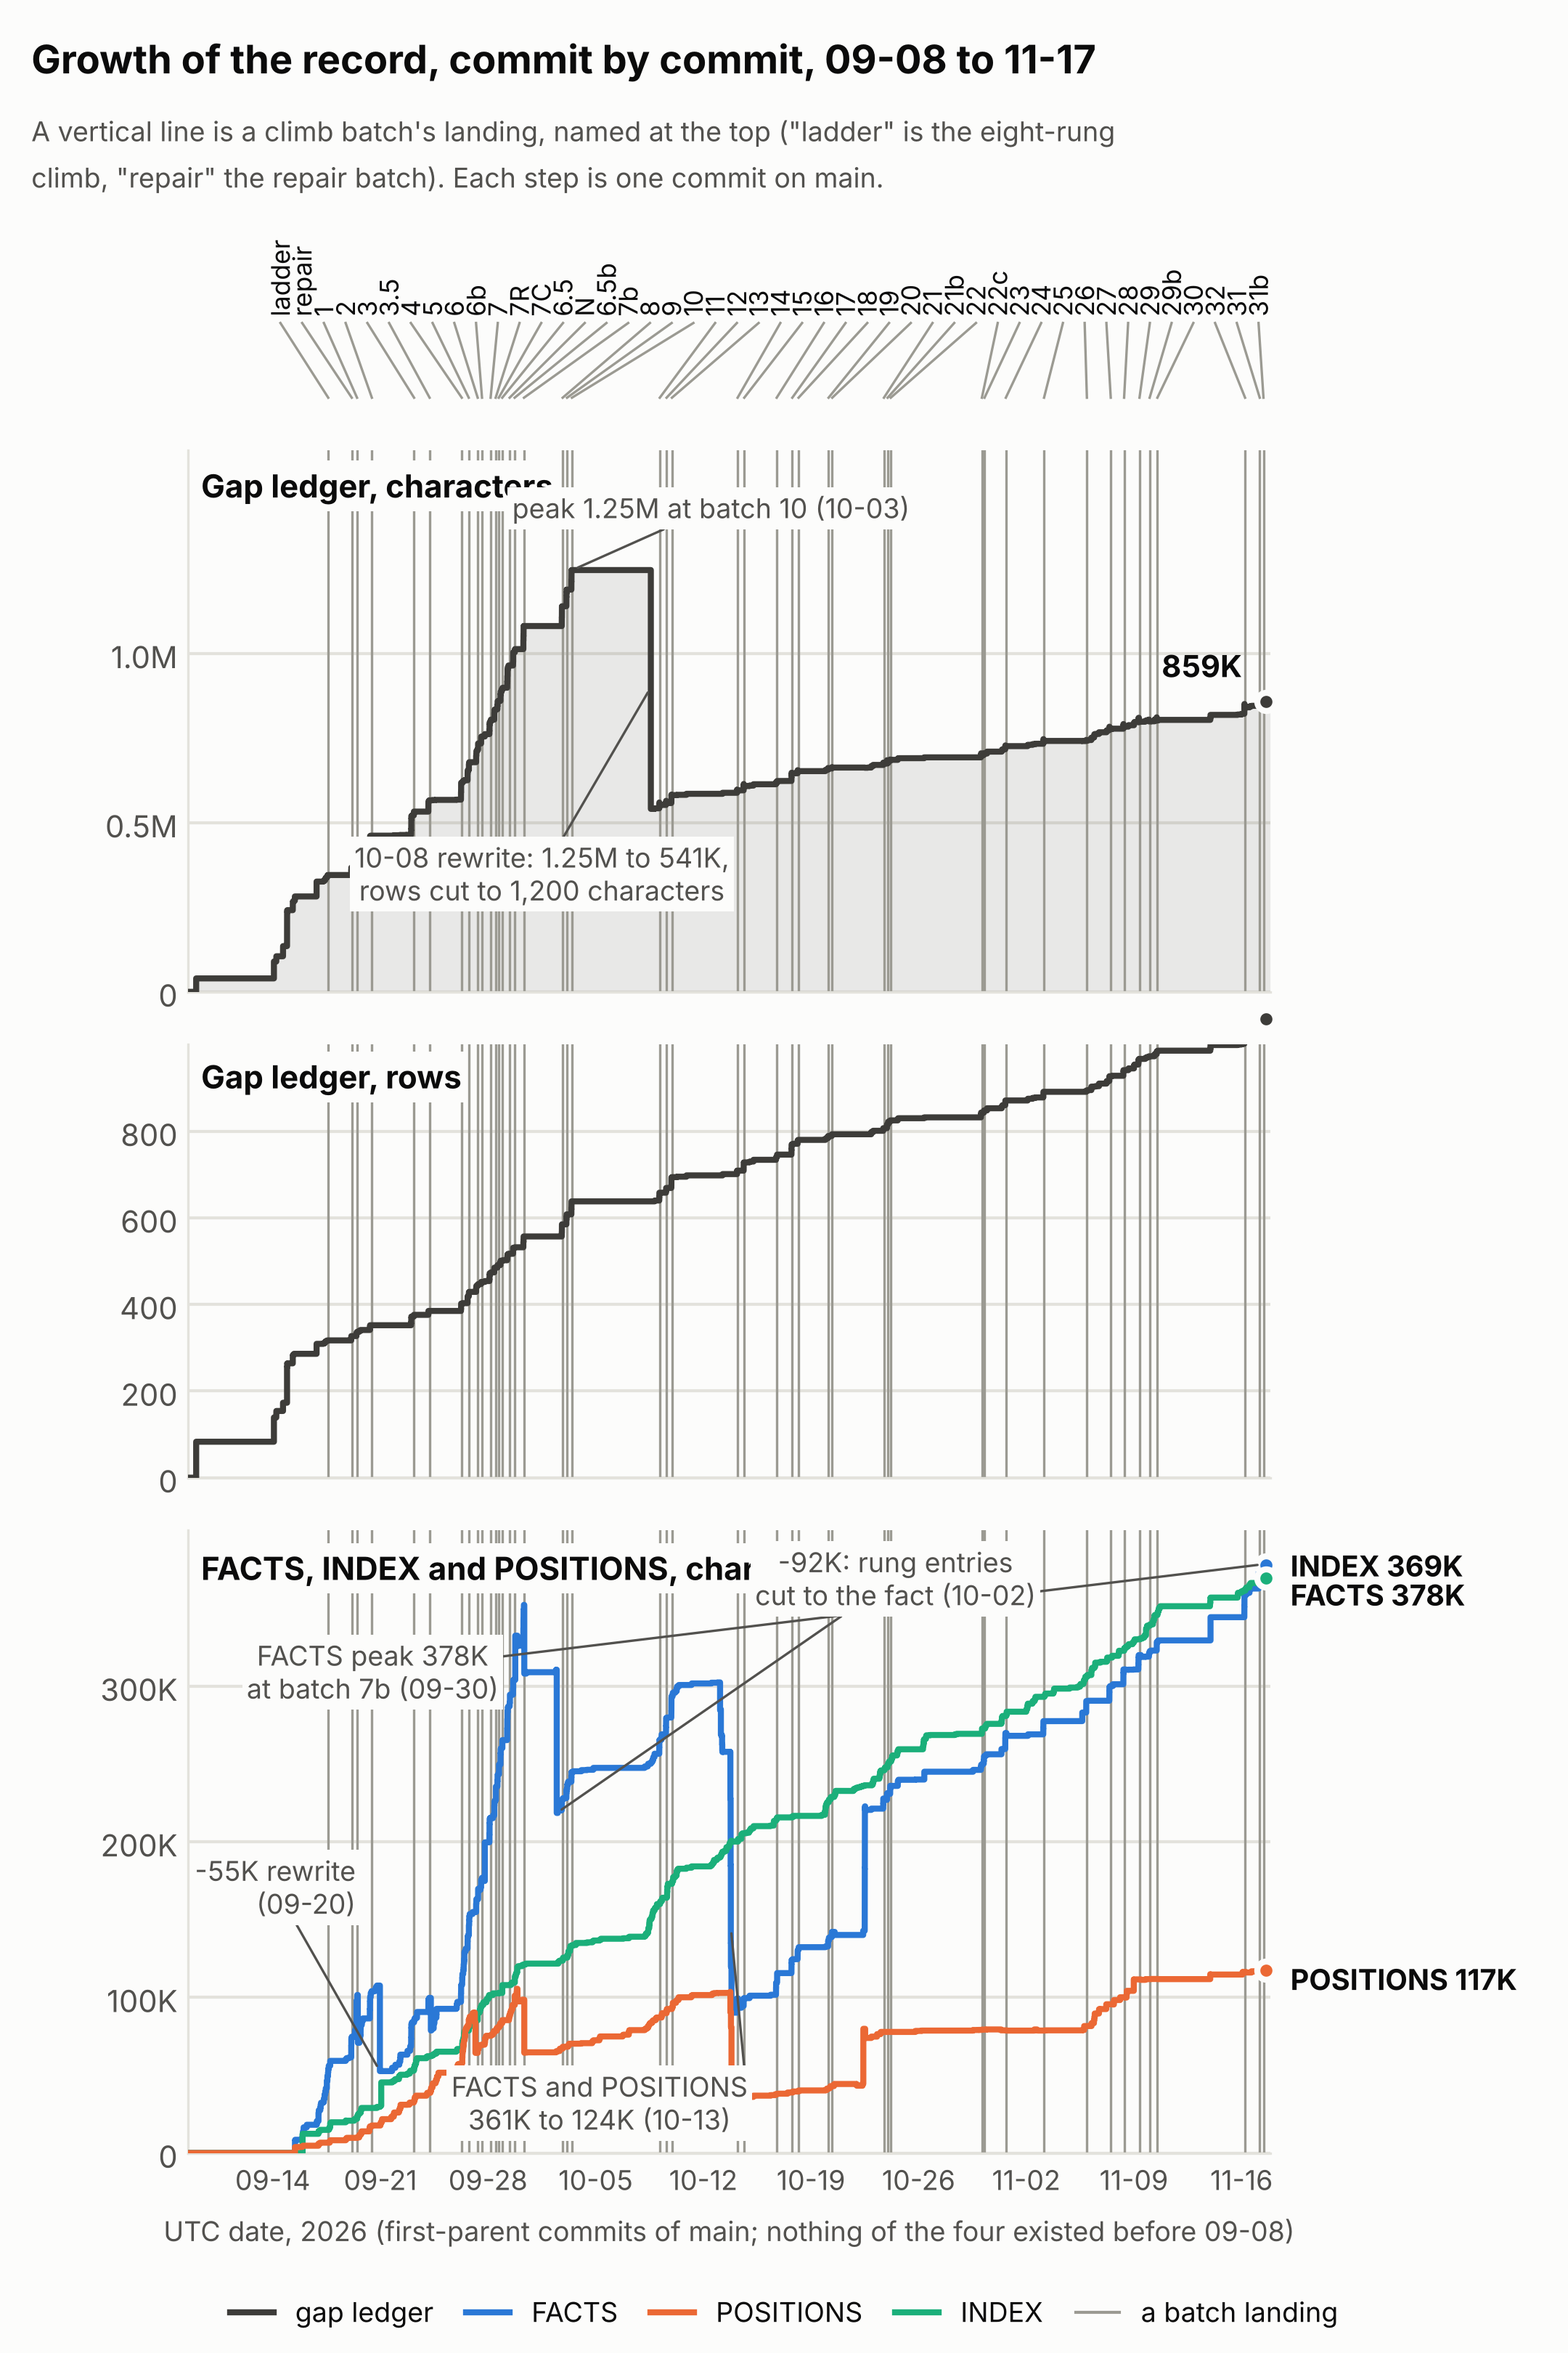
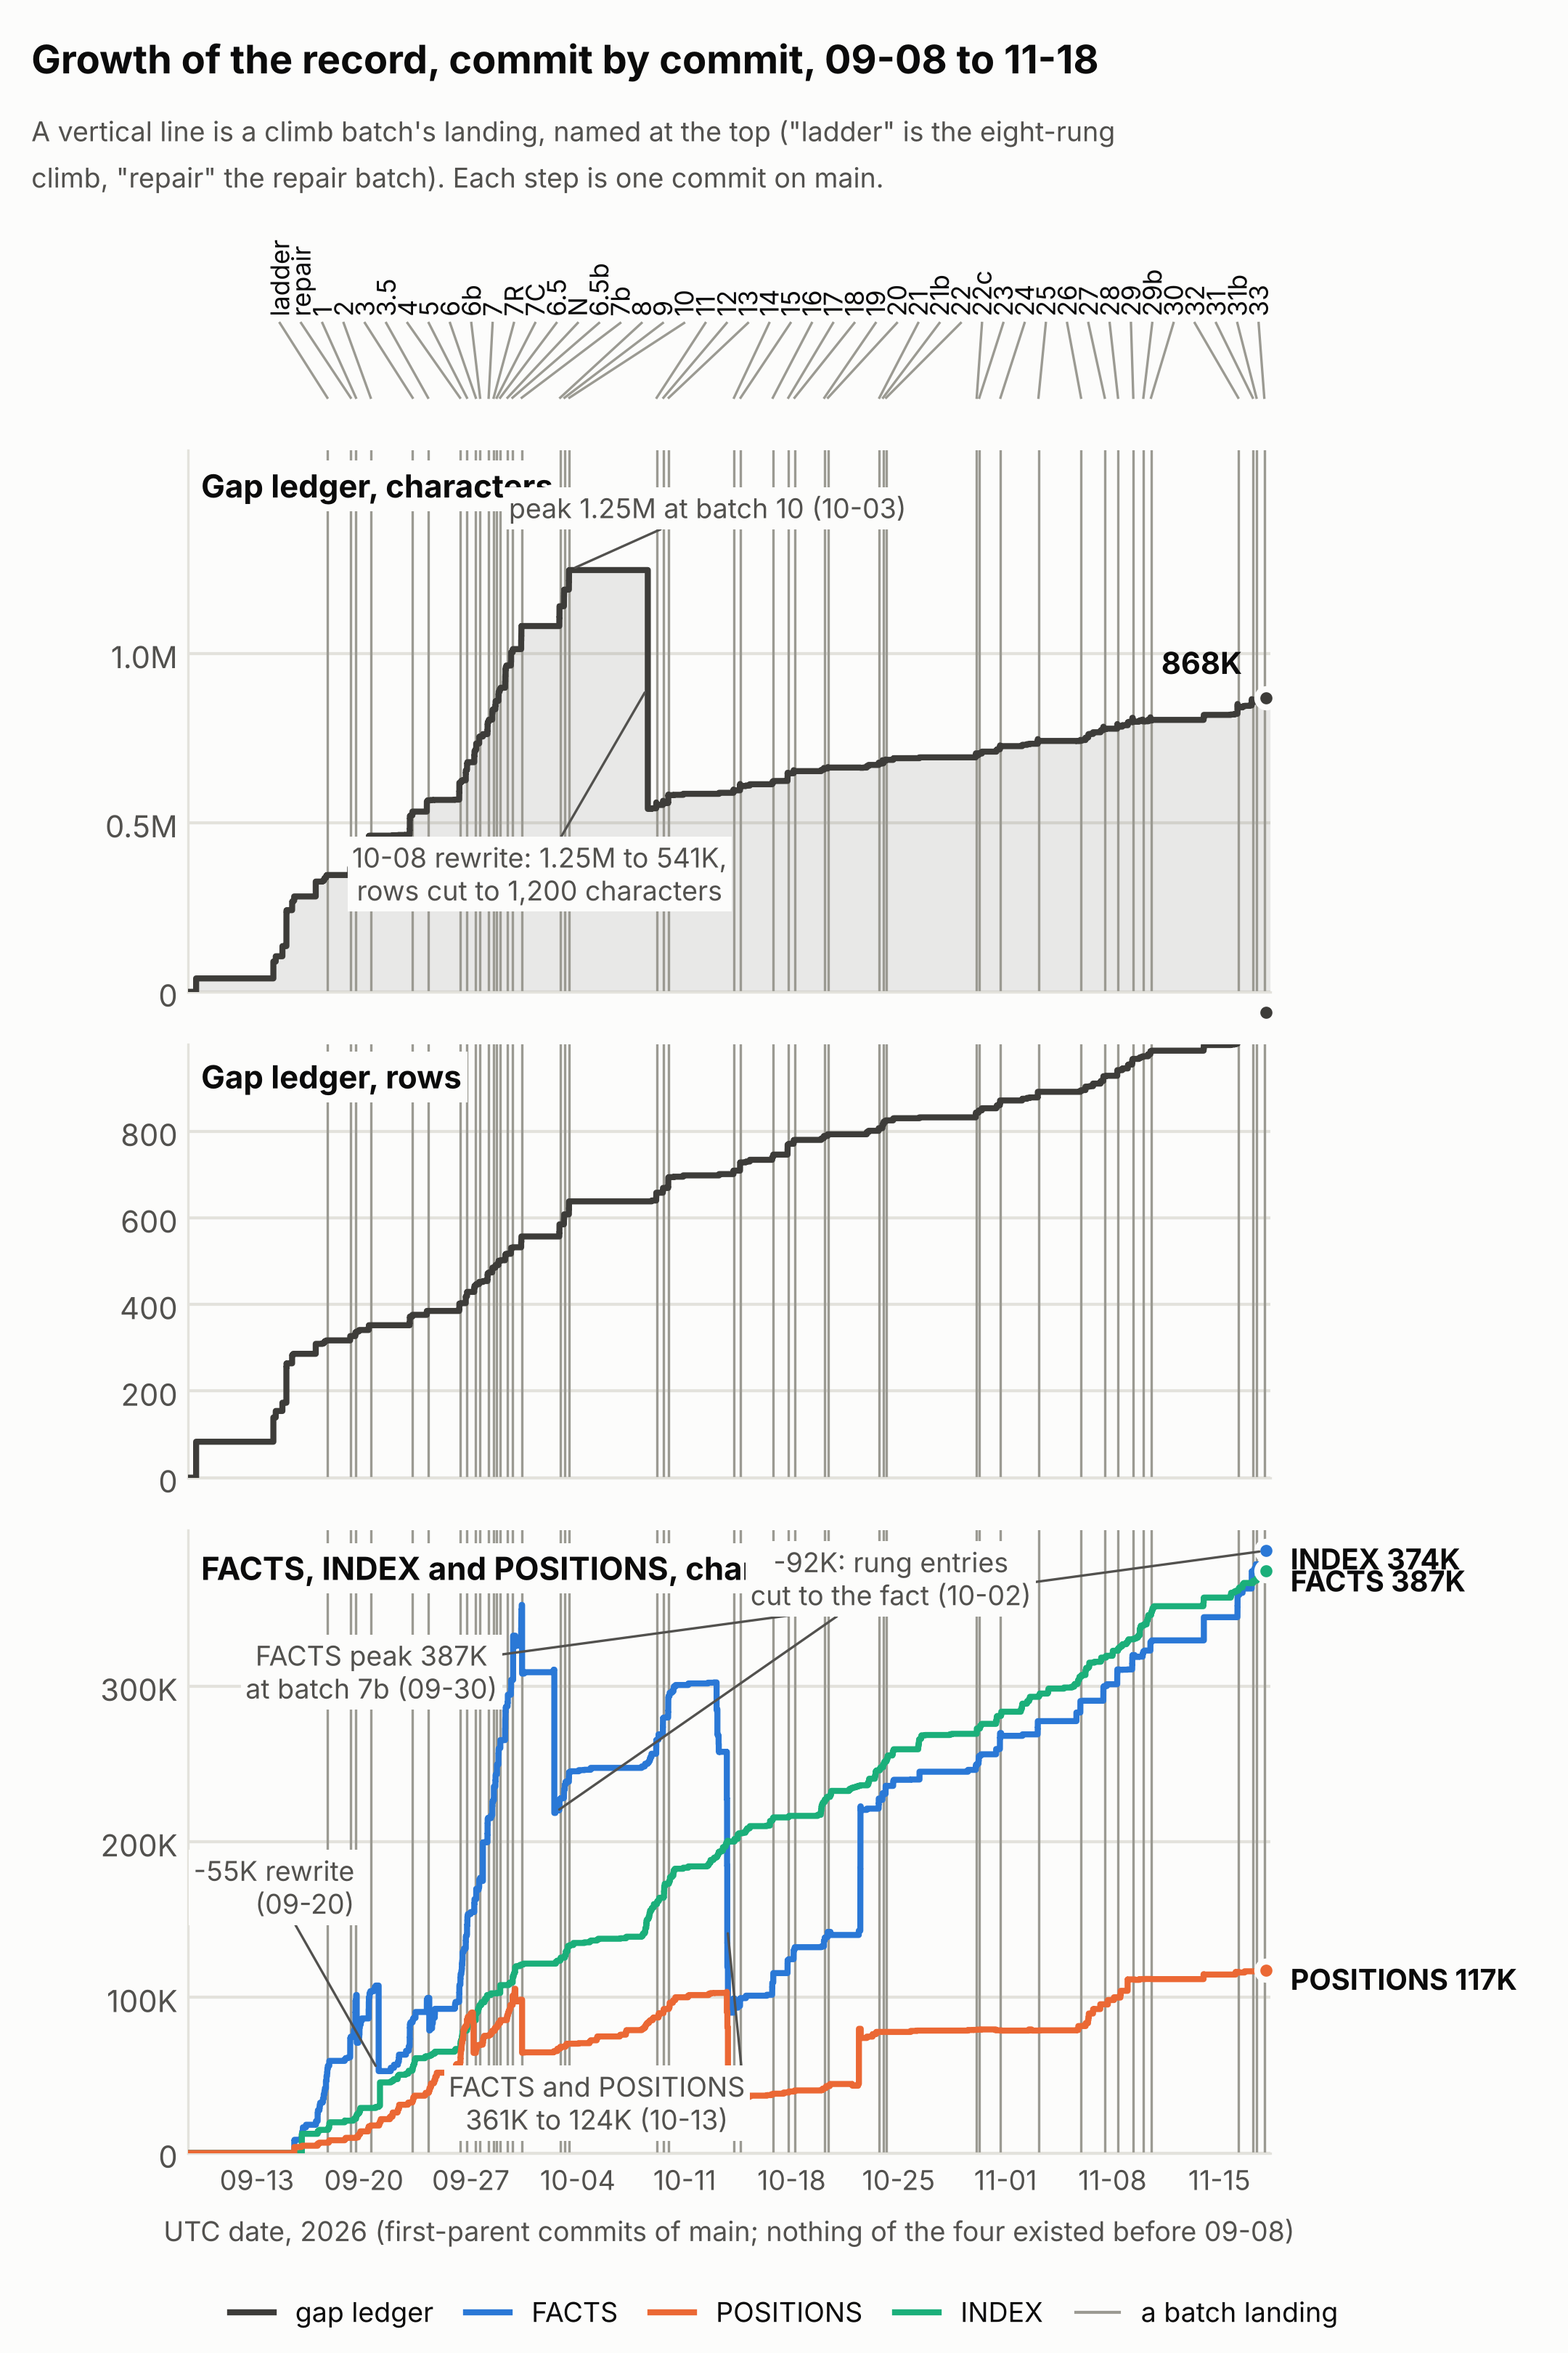
Revival page: where it stands at the landing of climb batch 33, the record chart regenerated
By the climb batch 33 landing workflow.

Claude-Session: https://claude.ai/code/session_01AmiXNpJxQ6TBwec4vJZHDB

Changed region(s): [[0.1551, 0.0935, 0.9306, 0.9352], [0.5583, 0.4364, 0.5894, 0.6235], [0.6824, 0.0, 0.7134, 0.0312]]

diff --git a/docs/revival-story/index.html b/docs/revival-story/index.html
@@ -201,7 +201,7 @@ details.words dl.gloss dd { margin-left: 1em; }
 <p>A script rewrites the block below at each landing, from the plan and the gate. The rest of the page changes only when a phase ends.</p>
 <div class="intro">
 <!-- stand:begin -->
-<p><strong>Where it stands, at the landing of batch 31b on 17 November 2026</strong></p>
+<p><strong>Where it stands, at the landing of batch 33 on 17 November 2026</strong></p>
 <ul>
 <li><strong>Phase:</strong> 4 of 6, which ends with the switch-over, since 30 October.</li>
 <li><strong>Checker count:</strong> 0.</li>
@@ -302,7 +302,7 @@ details.words dl.gloss dd { margin-left: 1em; }
 <section id="the-record" class="part">
 <h2>7. The record</h2>
 <p>The record is the project's notes, kept in the repository beside the team's code. Its main parts are the gap ledger (section 5), the list of facts, the list of the curator's decisions, and an index of all notes. An agent reads the parts its task needs before it starts, so no agent works out again what the record holds.</p>
-<figure><img src="record-growth.png" alt="The gap ledger&#x27;s characters and rows, and FACTS, POSITIONS and INDEX, commit by commit from 09-08 to 11-17, with each batch&#x27;s landing marked" width="1080" height="1620"></figure>
+<figure><img src="record-growth.png" alt="The gap ledger&#x27;s characters and rows, and FACTS, POSITIONS and INDEX, commit by commit from 09-08 to 11-18, with each batch&#x27;s landing marked" width="1080" height="1620"></figure>
 <p>The chart has three panels on one time axis, with a vertical line at each batch's landing. They show the ledger's characters, its rows, and the sizes of the facts, the decisions and the index. The ledger grows mostly while batches run, and the index by one line for each new note. Each sharp fall is a rewrite that shortened the entries, with the earlier text kept in history.</p>
 </section>
 <footer>

diff --git a/explorations/coordinator/process-engineering/revival-story.html b/explorations/coordinator/process-engineering/revival-story.html
@@ -194,7 +194,7 @@ details.words dl.gloss dd { margin-left: 1em; }
 <p>A script rewrites the block below at each landing, from the plan and the gate. The rest of the page changes only when a phase ends.</p>
 <div class="intro">
 <!-- stand:begin -->
-<p><strong>Where it stands, at the landing of batch 31b on 17 November 2026</strong></p>
+<p><strong>Where it stands, at the landing of batch 33 on 17 November 2026</strong></p>
 <ul>
 <li><strong>Phase:</strong> 4 of 6, which ends with the switch-over, since 30 October.</li>
 <li><strong>Checker count:</strong> 0.</li>
@@ -295,7 +295,7 @@ details.words dl.gloss dd { margin-left: 1em; }
 <section id="the-record" class="part">
 <h2>7. The record</h2>
 <p>The record is the project's notes, kept in the repository beside the team's code. Its main parts are the gap ledger (section 5), the list of facts, the list of the curator's decisions, and an index of all notes. An agent reads the parts its task needs before it starts, so no agent works out again what the record holds.</p>
-<figure><img src="record-growth.png" alt="The gap ledger&#x27;s characters and rows, and FACTS, POSITIONS and INDEX, commit by commit from 09-08 to 11-17, with each batch&#x27;s landing marked" width="1080" height="1620"></figure>
+<figure><img src="record-growth.png" alt="The gap ledger&#x27;s characters and rows, and FACTS, POSITIONS and INDEX, commit by commit from 09-08 to 11-18, with each batch&#x27;s landing marked" width="1080" height="1620"></figure>
 <p>The chart has three panels on one time axis, with a vertical line at each batch's landing. They show the ledger's characters, its rows, and the sizes of the facts, the decisions and the index. The ledger grows mostly while batches run, and the index by one line for each new note. Each sharp fall is a rewrite that shortened the entries, with the earlier text kept in history.</p>
 </section>
 <footer>

diff --git a/explorations/coordinator/process-engineering/revival-story.md b/explorations/coordinator/process-engineering/revival-story.md
@@ -124,7 +124,7 @@ A reading is one interpretation of a rule where the specification's text allows 
 A script rewrites the block below at each landing, from the plan and the gate. The rest of the page changes only when a phase ends.
 
 <!-- stand:begin -->
-**Where it stands, at the landing of batch 31b on 17 November 2026**
+**Where it stands, at the landing of batch 33 on 17 November 2026**
 
 - **Phase:** 4 of 6, which ends with the switch-over, since 30 October.
 - **Checker count:** 0.
